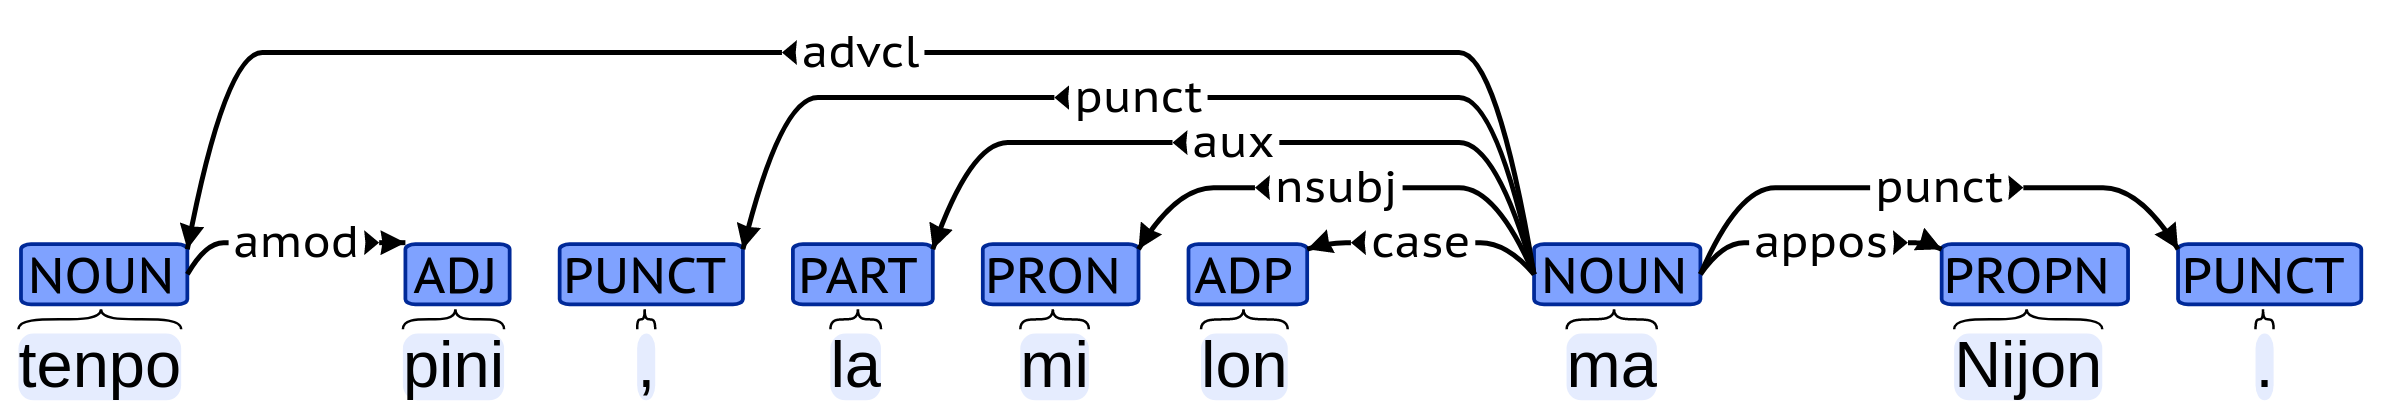
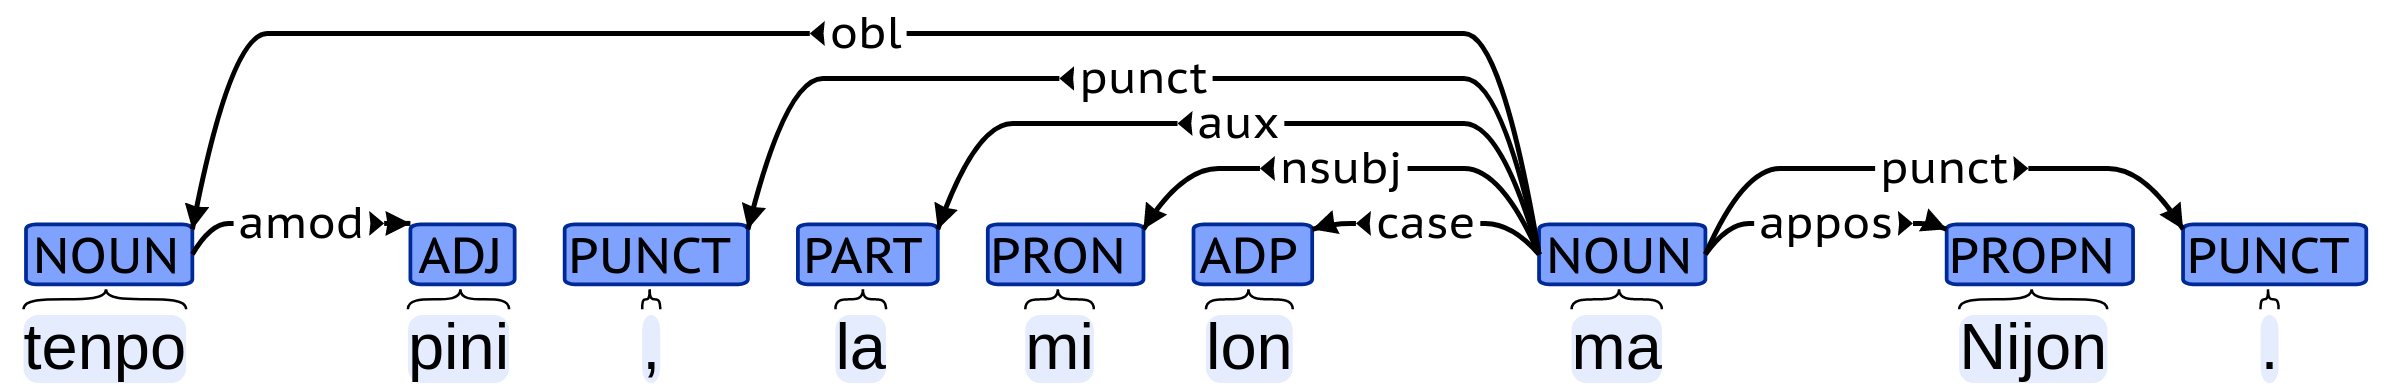
add

diff --git a/image/vis.html b/image/vis.html
@@ -337,7 +337,7 @@
 
 <pre><code class="language-conllu">
 0	ROOT					0	root
-1	tenpo		NOUN			7	advcl
+1	tenpo		NOUN			7	obl
 2	pini		ADJ			1	amod
 3	,		PUNCT			7	punct
 4	la		PART			7	aux
@@ -350,8 +350,8 @@
 
 <pre><code class="language-conllu">
 0	ROOT					0	root
-1	tan		NOUN			7	advcl
-2	seme		PRON			1	nmod
+1	tan		NOUN			2	case
+2	seme		PRON			7	obl
 3	,		PUNCT			7	punct
 4	la		PART			7	aux
 5	jan		NOUN			7	nsubj
@@ -393,6 +393,36 @@
 7	laso		ADJ			6	amod
 8	jelo		ADJ			7	compound
 9	.		PUNCT			4	punct
+</code></pre>
+
+<pre><code class="language-conllu">
+0	ROOT					0	root
+1	ma		NOUN			5	nsubj
+2	tomo		ADJ			1	amod
+3	Nakoja		PROPN			1	appos
+4	li		PART			5	aux
+5	pona		ADJ			0	root
+6	mute		ADV			5	advmod
+7	mute		ADV			6	compound:redup
+8	mute		ADV			7	compound:redup
+9	.		PUNCT			5	punct
+</code></pre>
+
+<pre><code class="language-conllu">
+0	ROOT					0	root
+1	ma		NOUN			9	nsubj
+2	tomo		ADJ			1	amod
+3	Osaka		PROPN			1	appos
+4	en		CCONJ			5	cc
+5	ma		NOUN			1	conj
+6	tomo		ADJ			5	amod
+7	Tokijo		PROPN			5	appos
+8	li		PART			9	aux
+9	ike		ADJ			0	root
+10	a		INTJ			9	discourse
+11	a		INTJ			10	compound:redup
+12	a		INTJ			11	compound:redup
+13	!		PUNCT			9	punct
 </code></pre>
 
 <pre><code class="language-conllu">
